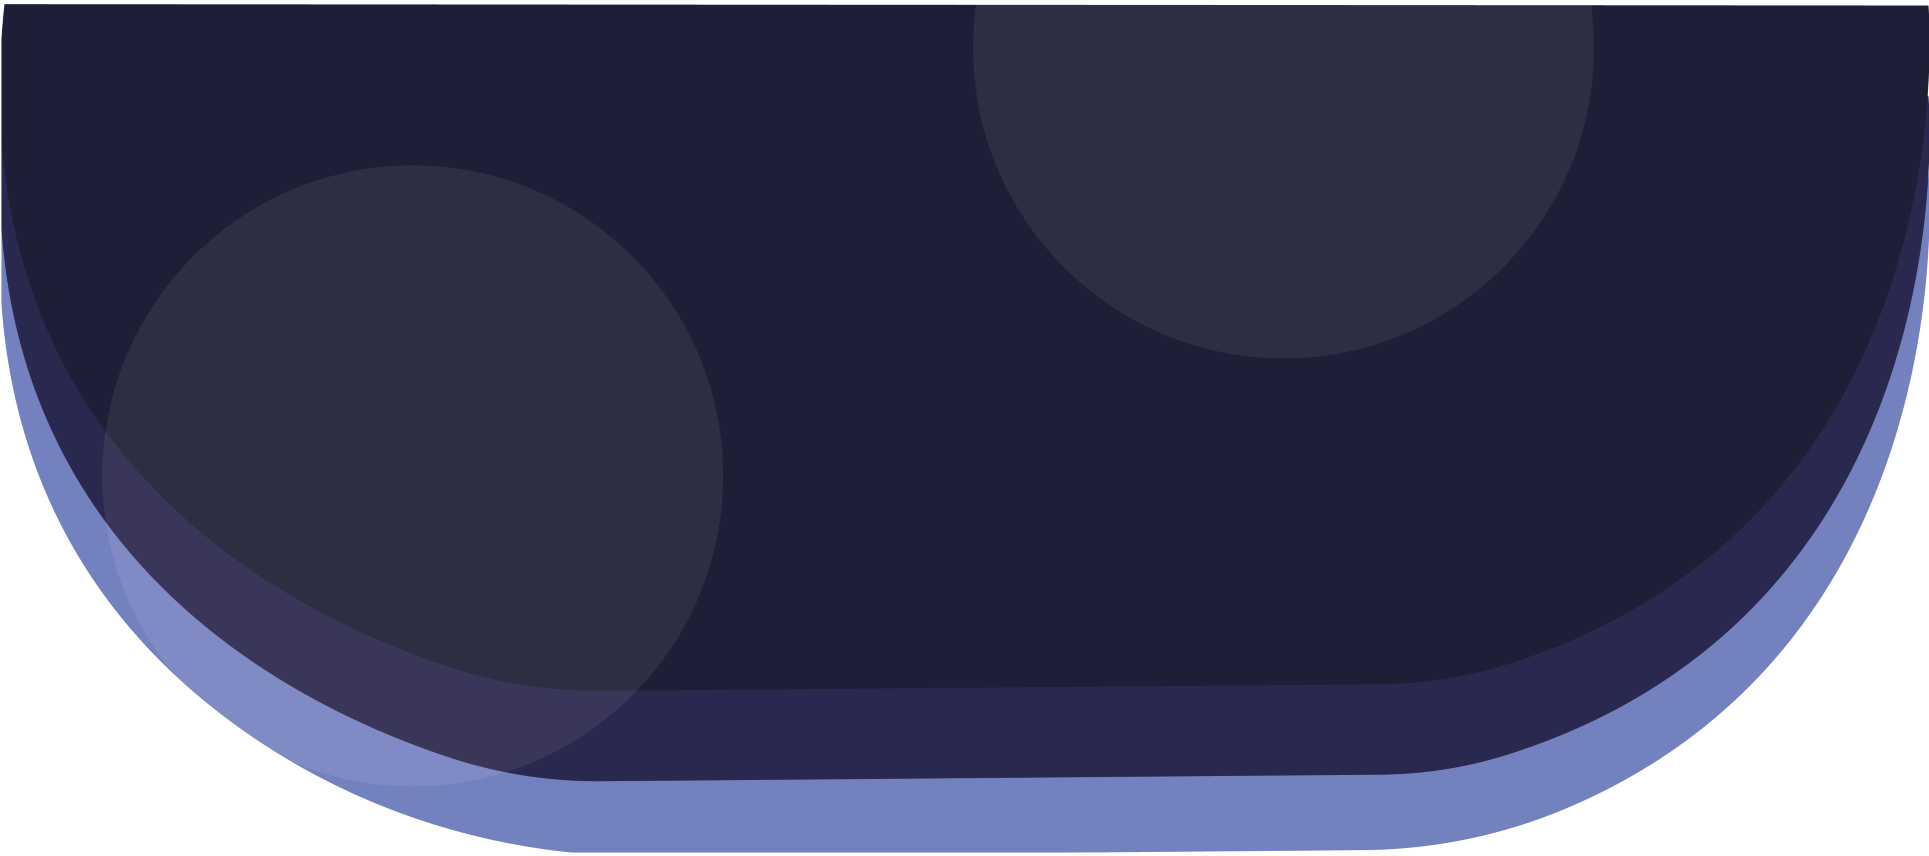
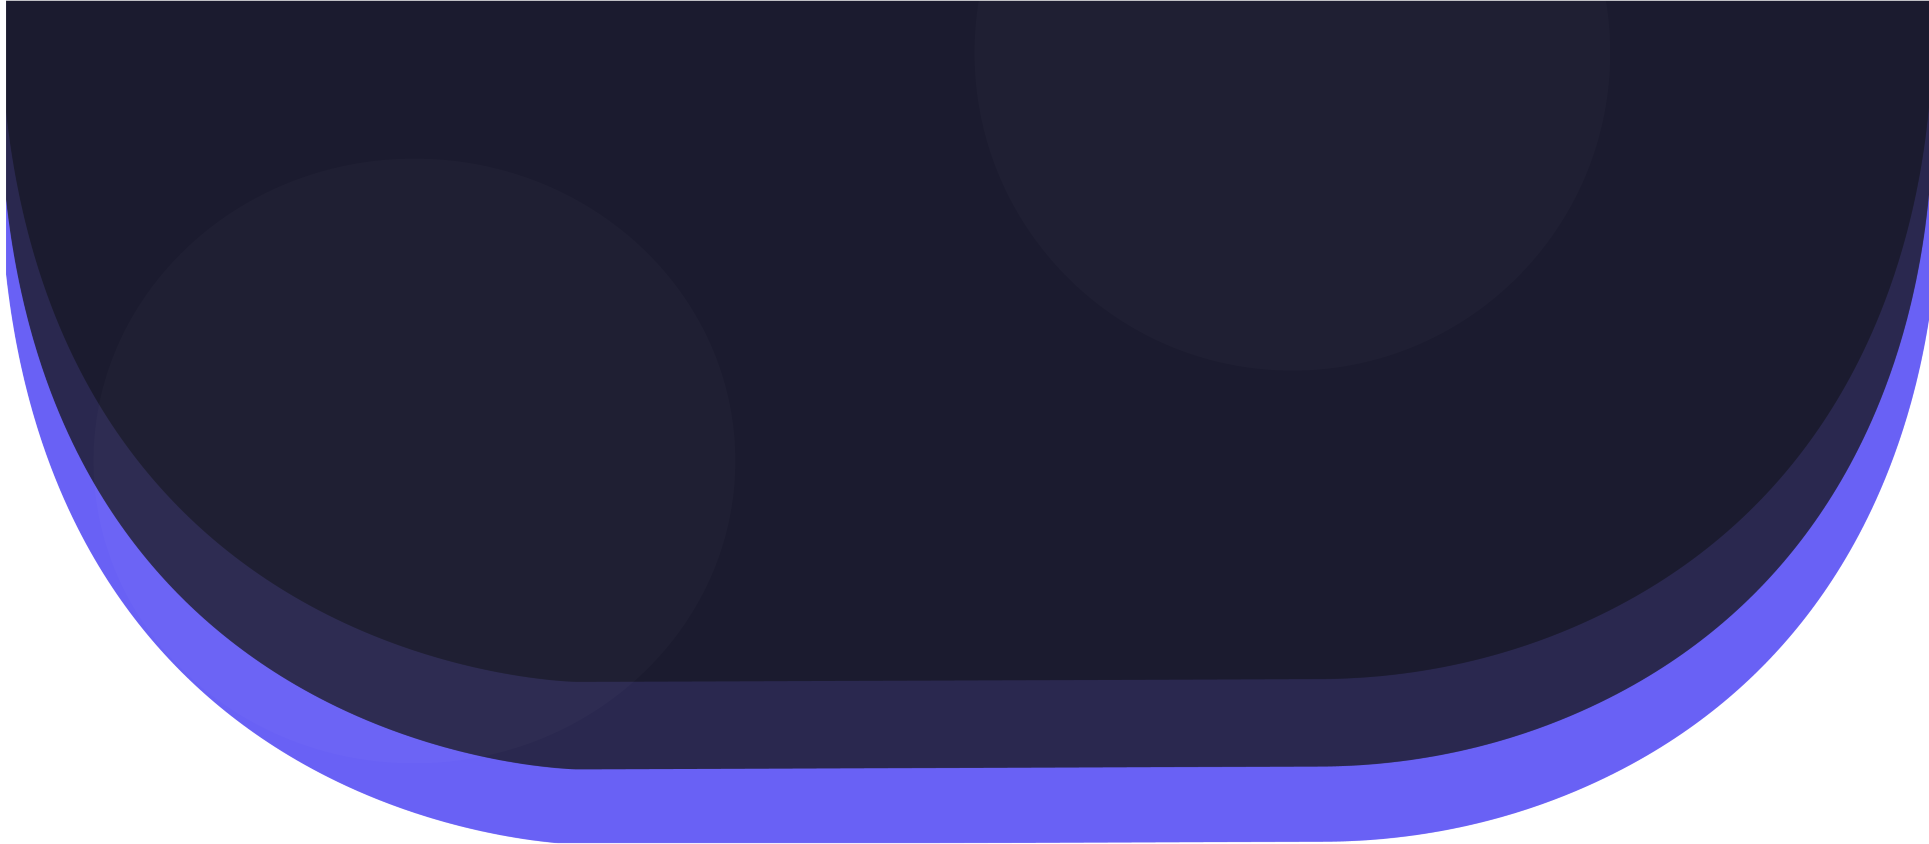
Fixed Bug

diff --git a/css/header.css b/css/header.css
@@ -149,12 +149,14 @@ header.showHeader nav div.theme_mode:hover i {background: rgba(0, 0, 0, 0.2)}
 
 header nav div.theme_mode i.dark {
     color: var(--darkwhite);
-    background: var(--darkmodebg);
+    background: var(--darkmodelg);
+    box-shadow: 0 0 5px -3px var(--lightviolet);
 }
 
 header nav div.theme_mode:hover i.dark {
-    background: rgba(18, 18, 36, 1);
-    box-shadow: rgba(0, 0, 0, 0.4);
+    color: var(--lightgrey);
+    background: var(--darkmodebg);
+    box-shadow: 0 0 5px var(--darkmodelg);
 }
 
 header nav div.theme_mode i:nth-child(1) {opacity: 1; transform: translate(-50%, -50%) rotate(0deg);}

diff --git a/css/style.css b/css/style.css
@@ -40,6 +40,7 @@ body.dark {
     --darkblack: #222831;
     --lightblack: #495464;
 
+    --darkmodelg: #2a284f;
     --darkmode: #1f1f37;
     --darkmodebg: #1b1b2f;
 
@@ -55,13 +56,14 @@ body.dark {
     --lightblue: #0075f6;
     --lightgreen: #00ff7f;
     --lightcyan: #20fdee;
+    --lightviolet: #6961f5;
 }
 
 /* Custom Scroll Bar */
 
 ::-webkit-scrollbar {
-    width: 8px;
-    height: 8px;
+    width: 7px;
+    height: 7px;
     background: transparent;
 }
 ::-webkit-scrollbar-thumb {

diff --git a/cart.html b/cart.html
@@ -14,6 +14,7 @@
     <link rel="stylesheet" href="https://cdn.jsdelivr.net/npm/bootstrap@4.6.0/dist/css/bootstrap.min.css" />
 
     <link rel="stylesheet" href="./css/style.css" />
+    <link rel="stylesheet" href="./css/darkmode.css" />
     <link rel="stylesheet" href="./css/loader.css" />
     <link rel="stylesheet" href="./css/header.css" />
     <link rel="stylesheet" href="./css/footer.css" />

diff --git a/js/index.js b/js/index.js
@@ -172,8 +172,8 @@ $(".food-cart img:nth-child(2)").click(function () {
     counter--;
     $(".badge-count").text(counter);
     $.toast.fire({
-        icon: "success",
-        title: '<span class="text-success">Item Removed from Cart!</span>',
+        icon: "warning",
+        title: '<span class="text-warning">Item Removed from Cart!</span>',
     });
 });
 

diff --git a/css/footer.css b/css/footer.css
@@ -121,10 +121,6 @@ div.ScrolltoTop.show {
     transform: scale(1) rotate(360deg);
 }
 
-div.ScrolltoTop:hover {
-    transform: scale(1.1);
-}
-
 div.ScrolltoTop span.upArrow {
     display: flex;
     justify-content: center;
